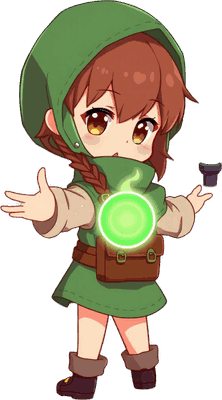
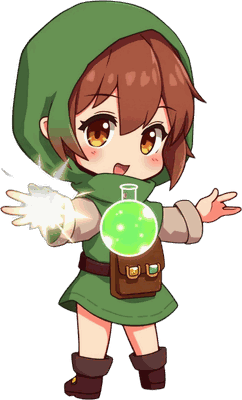
v0.85.0: 「翠緑の薬導士」の髪を左右に分ける
三つ編みが顔の前に垂れて、待機の絵では片目が隠れていた。
髪を左右に分けて肩の後ろへ流す指定に変えた。

「顔にかからない」とだけ書いても効かない。どこへ流すかまで
書かないと前に垂れる。

三つ編みを残す書き方(two low side tails)も引いて見比べたが、
発射のポーズだけ三つ編みが顔の前に戻ったので、残さない方を採った。

両目の幅は 39.8% → 29.8% と小さくなった(平均 35.2%)。表示倍率は
1.13 のまま ― この値は「並べた時の見栄え」で決めた指定なので、
測定値が動いたからといって触らない。

diff --git a/shared/version.ts b/shared/version.ts
@@ -4,6 +4,6 @@
 // BUILD_DATE は npm run build のたびに tools/stamp-version.mjs が
 // 実際の時刻(日本時間)で書き換えるので、手で触らないこと。
 
-export const VERSION = '0.84.0';
-export const BUILD_DATE = '2026-08-07 17:16';
+export const VERSION = '0.85.0';
+export const BUILD_DATE = '2026-08-07 17:29';
 export const COPYRIGHT = 'Copyright © 2026 YuriPapa';
